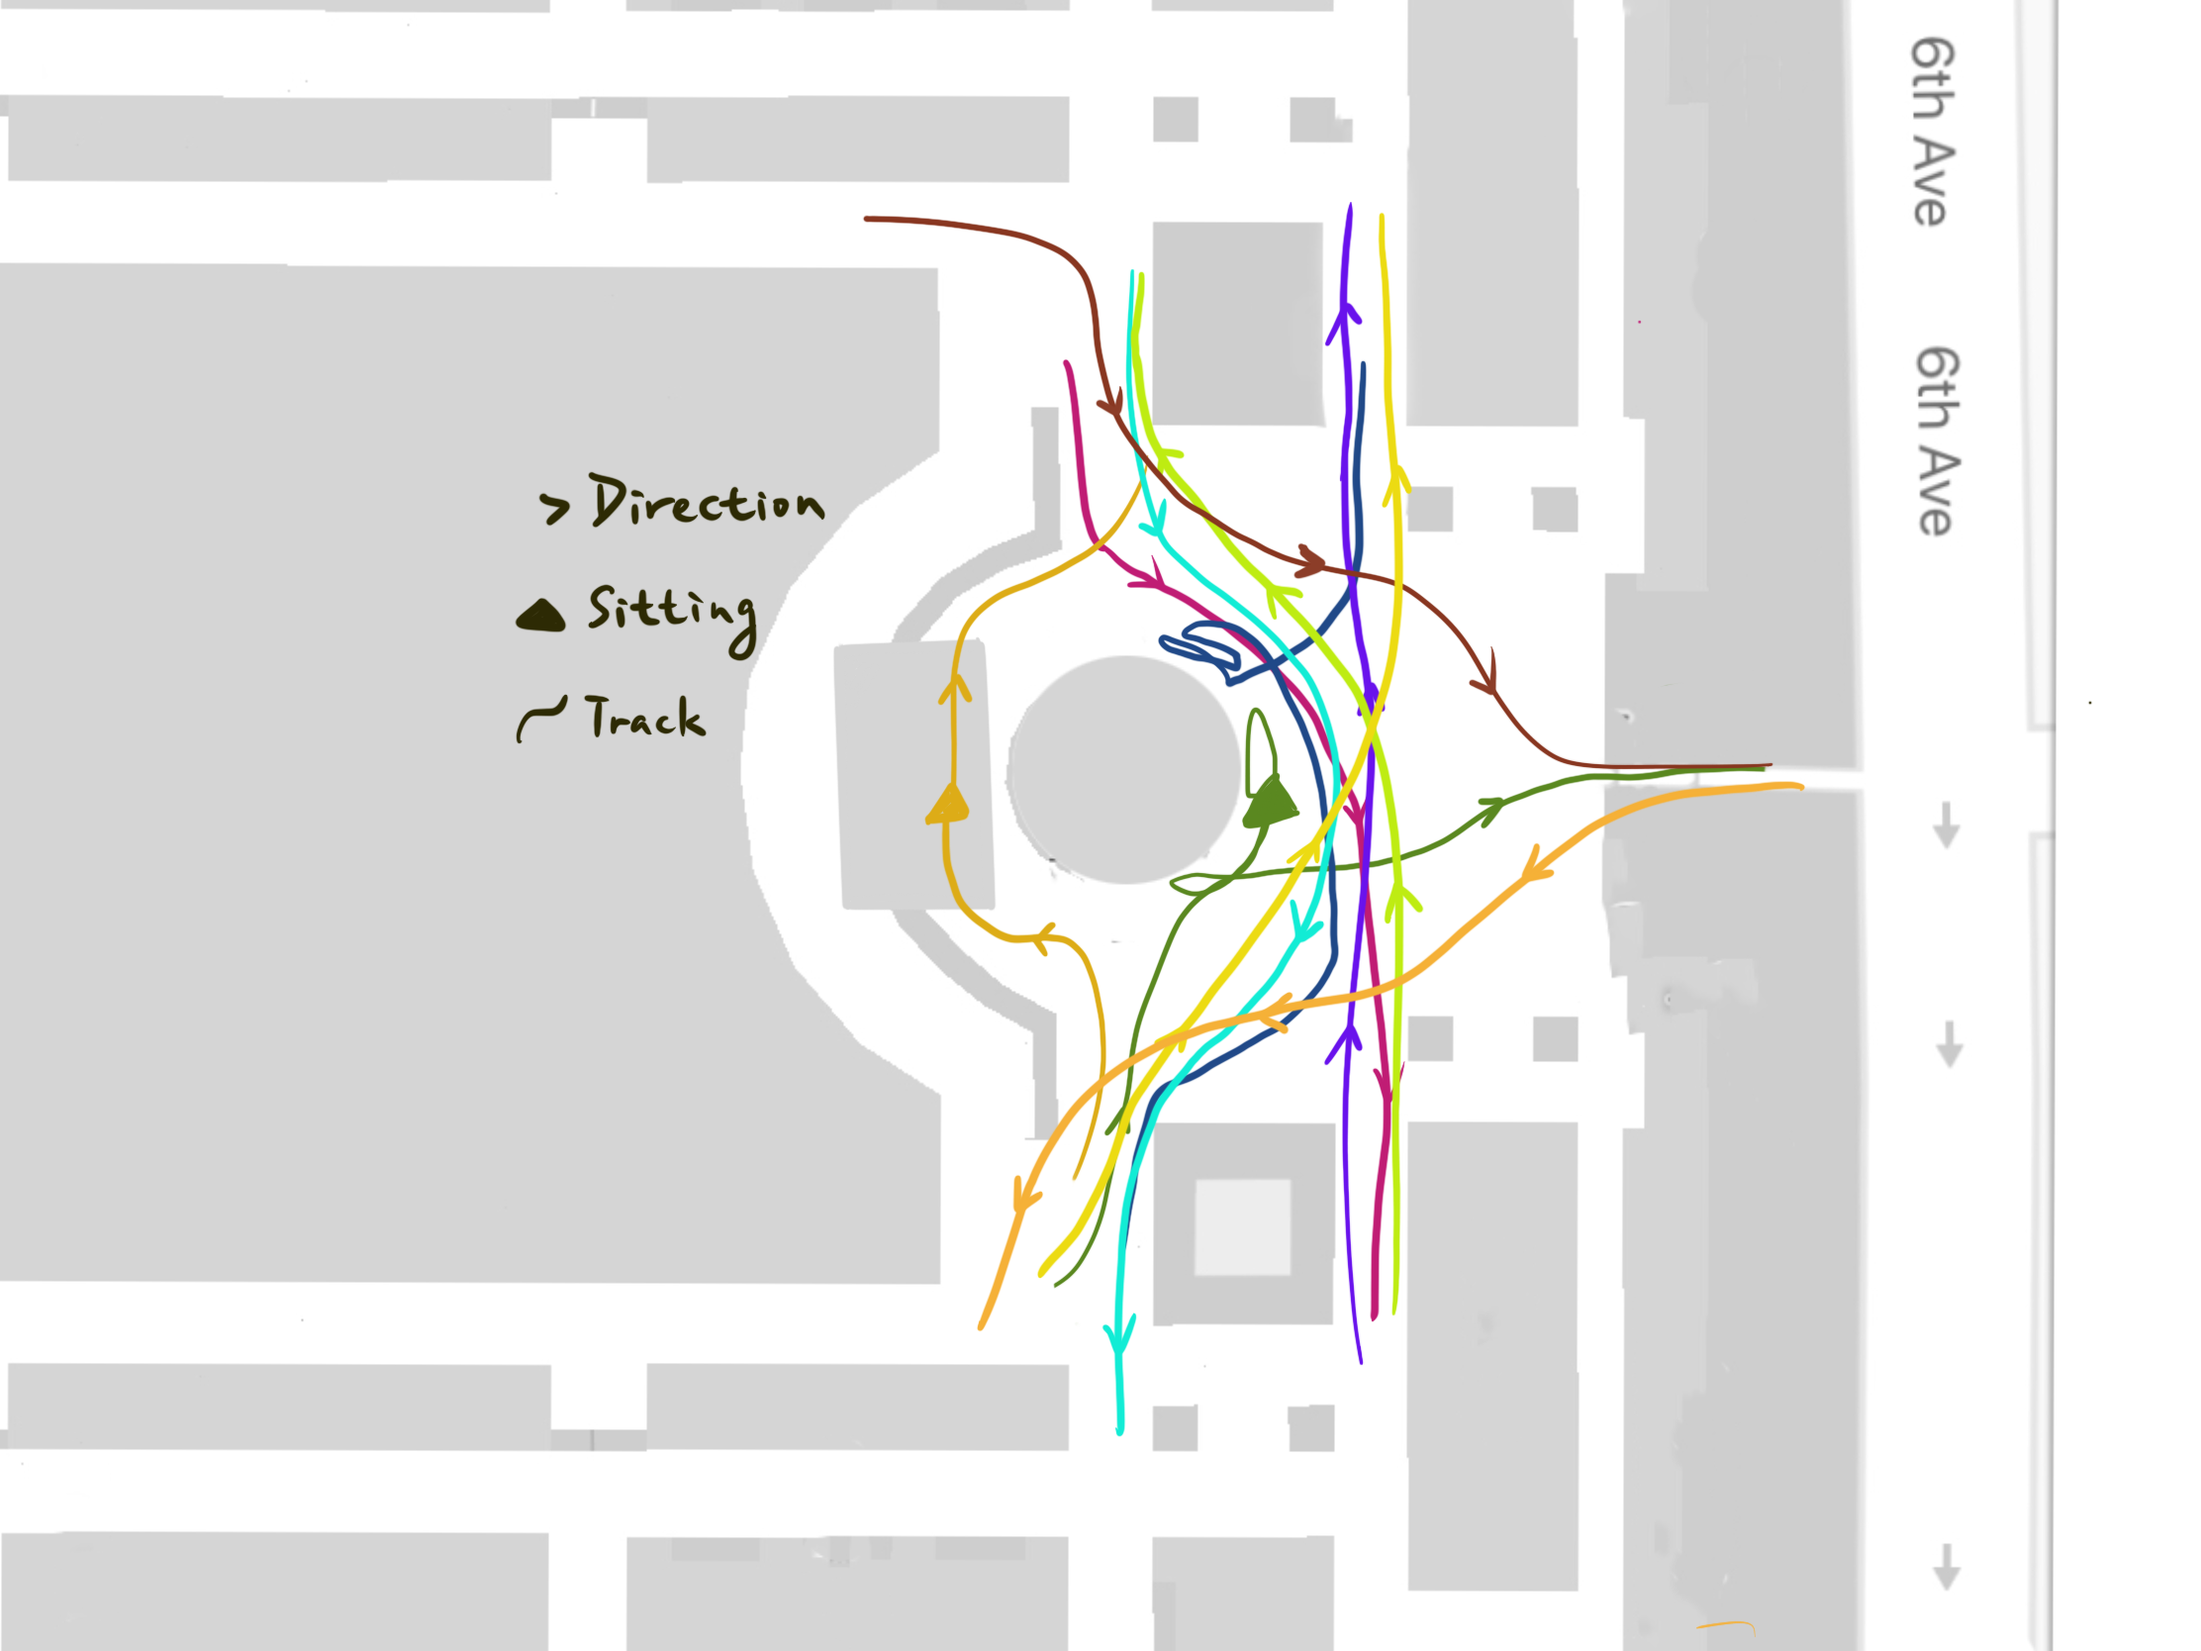
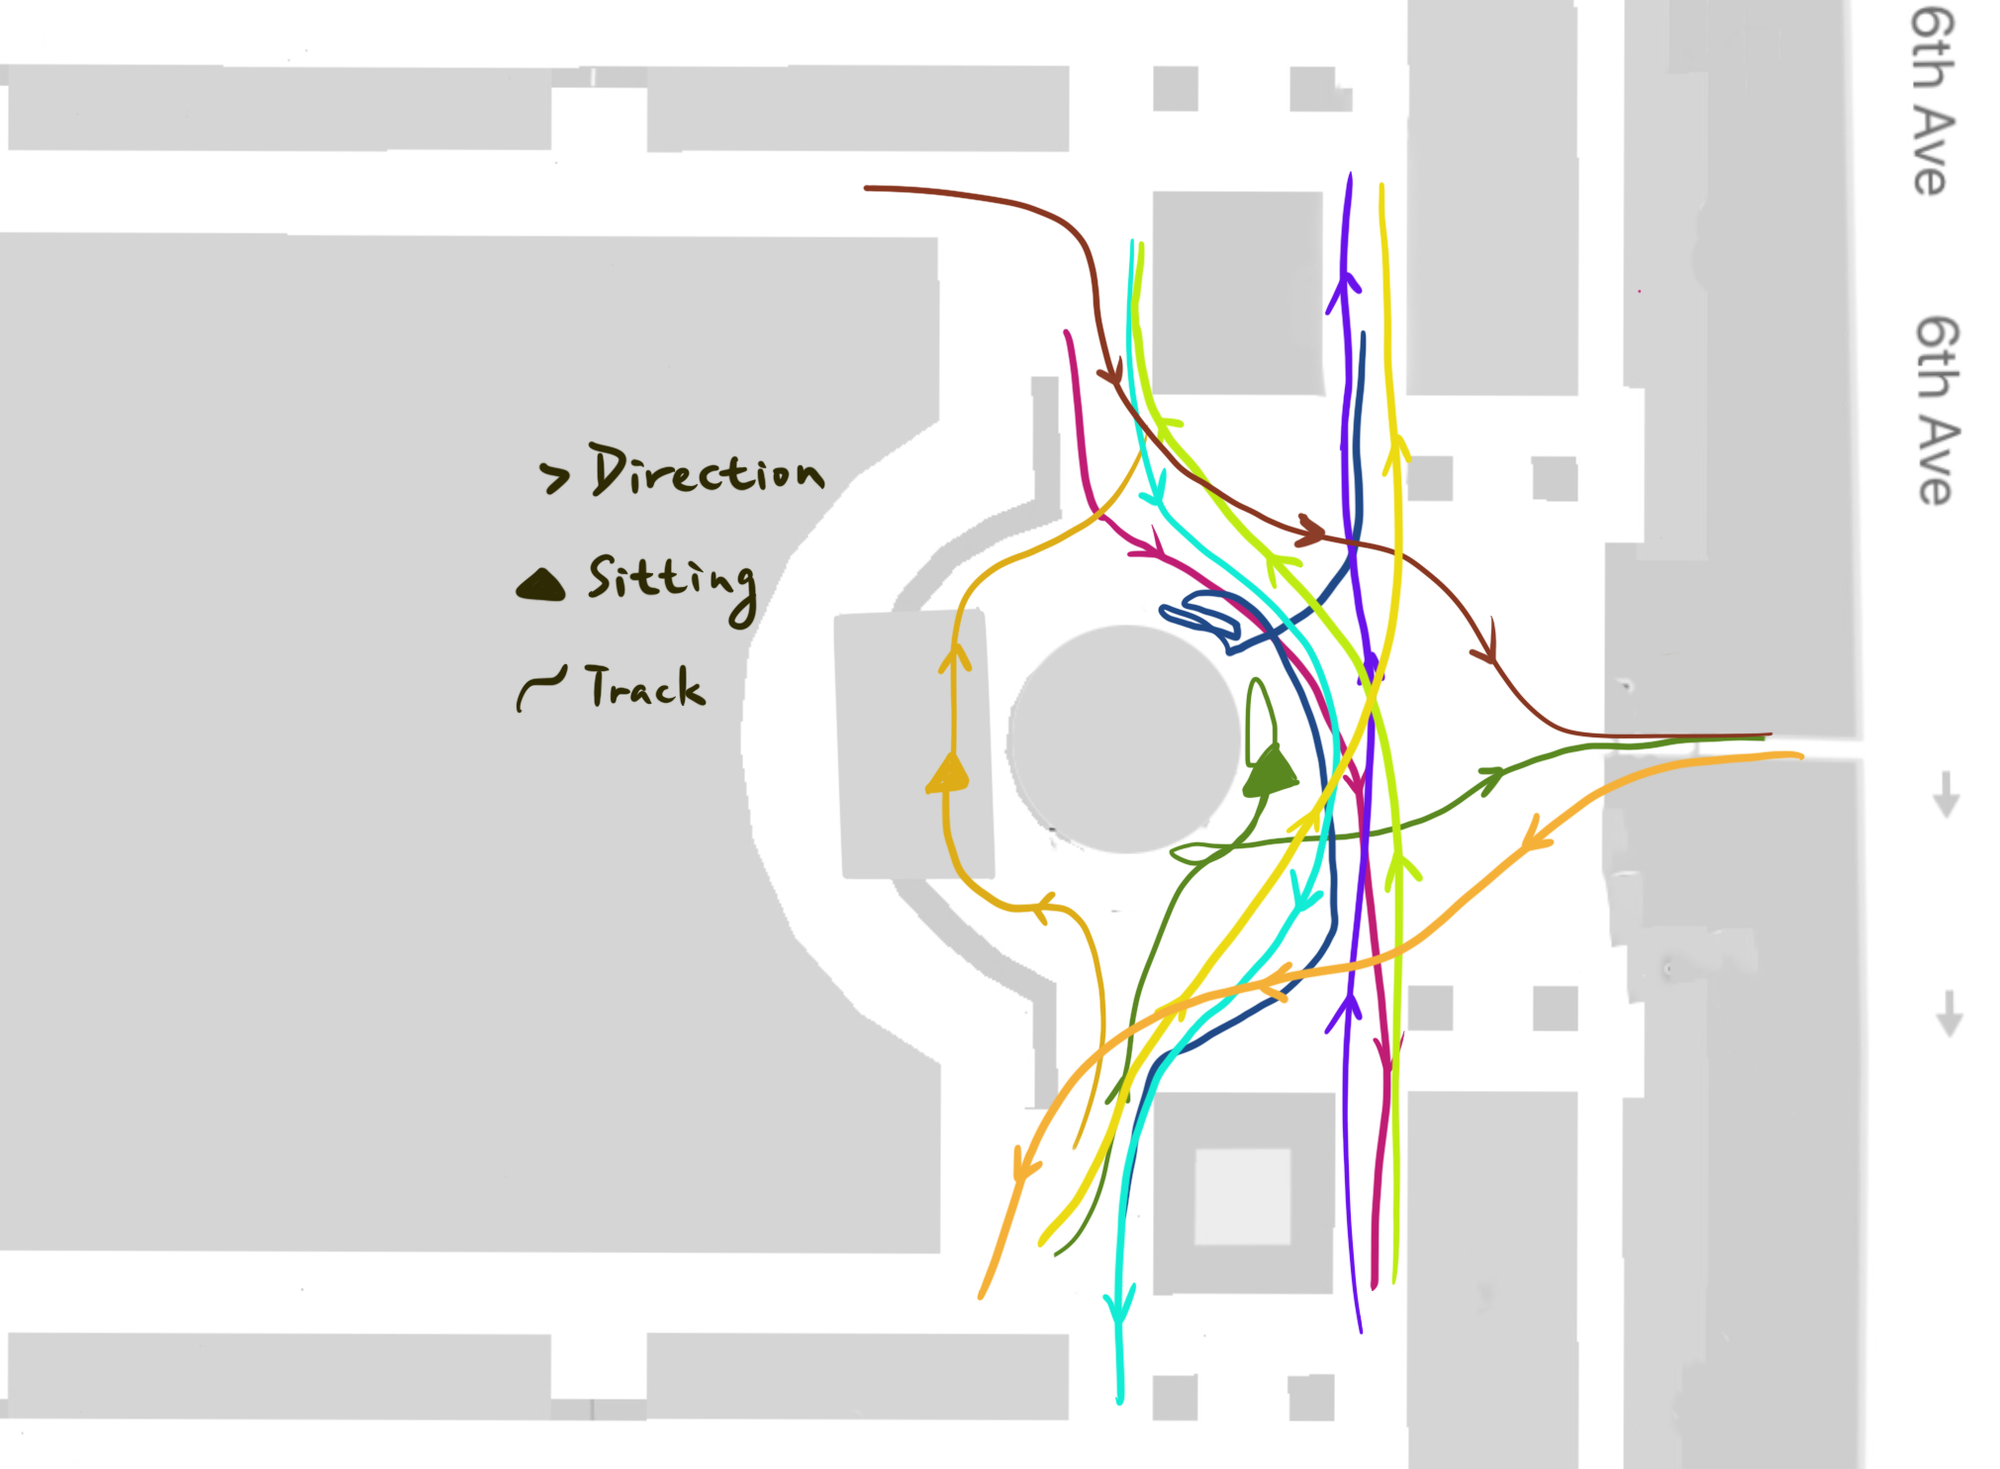
added fountain concept sktech

diff --git a/instructions_for_strangers.html b/instructions_for_strangers.html
@@ -99,6 +99,7 @@
                 </ul>
             </p>
             <h4>Observations at the Fountain:</h4>
+            <img src="public/image/instruction4strangers/BehaviorMapFountain.png" width="800" height="550">
             <img src="../MS1/public/image/instruction4strangers/fountain1.jpg" width="400" height="400"><img
                 src="../MS1/public/image/instruction4strangers/fountain2.jpg" width="400" height="400">
         </div>
@@ -110,11 +111,15 @@
         </div>
         <div id="concept-sketch">
             <h3>Concept Sketch</h3>
-            <img src="../MS1/public/image/instruction4strangers/Sketch.png" width="800" height="500">
+            <img src="../MS1/public/image/instruction4strangers/Sketch.png" width="800" height="500"><img
+                src="public/image/instruction4strangers/concept2.png" width="400" height="350">
+            <img src="public/image/instruction4strangers/concept-2-fountain.png" width="400" height="400">
         </div>
+
         <div id="prototype">
             <h3>On-site Prototype</h3>
             <img src="../MS1/public/image/instruction4strangers/prototype-1.gif" width="600" height="600">
+
 
         </div>
 
